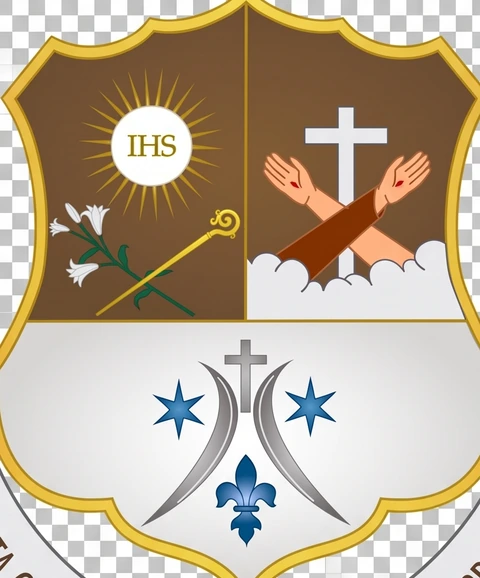
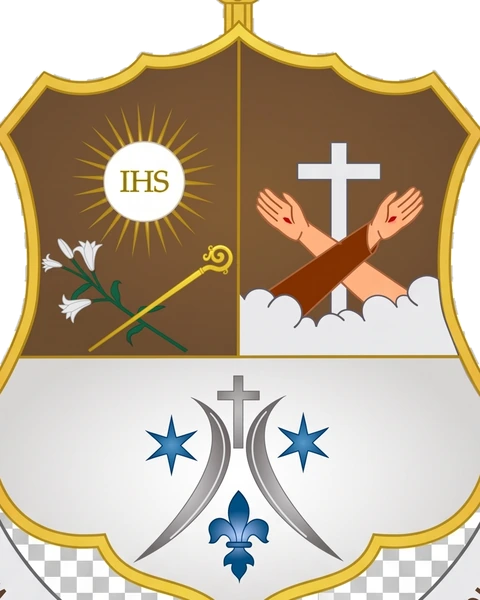
fix(brasao): recorta o fundo xadrez que estava gravado nos pixels
O PNG enviado pela secretaria nao tem transparencia real: o quadriculado
que aparece ao abrir num visualizador esta gravado nos proprios pixels,
alternando branco ~255 e cinza ~198. Tratado como se fosse canal alfa, ele
vinha junto para o site -- o brasao aparecia sobre um tabuleiro cinza.

O script volta a remover o fundo por preenchimento a partir das bordas,
agora capturando as duas tonalidades do xadrez em vez de so o branco, e
suavizando a mascara para a borda nao ficar serrilhada. So o fundo ligado a
borda da imagem e removido, o que preserva os brancos internos do desenho
(fita, base do escudo) que nao encostam na moldura.

O recorte do escudo foi recalibrado: o anterior cortava alto e deixava
entrar um pedaco da fita com uma letra solta. Com isso o escudo passou de
480x578 para 480x600, e Header e Footer acompanham as novas dimensoes.

O menu do cabecalho ganhou espacamento menor para os nove links caberem em
uma linha so.

Limitacao conhecida: sobra uma bolsa de xadrez entre a base do escudo e a
fita. Aquela regiao e cercada pelo contorno dourado e pela fita, entao o
preenchimento vindo da borda nunca a alcanca. Aparece nos cantos inferiores
do recorte do escudo.

diff --git a/components/Header.tsx b/components/Header.tsx
@@ -31,8 +31,8 @@ export default function Header() {
           <Image
             src="/fotos/brasao-escudo.webp"
             alt=""
-            width={443}
-            height={562}
+            width={480}
+            height={600}
             priority
             className="h-11 w-auto drop-shadow-sm sm:h-12"
           />
@@ -42,12 +42,12 @@ export default function Header() {
         </Link>
 
         <nav className="hidden xl:block" aria-label="Navegação principal">
-          <ul className="flex items-center gap-1">
+          <ul className="flex items-center gap-0.5">
             {links.map((link) => (
               <li key={link.href}>
                 <Link
                   href={link.href}
-                  className={`rounded-md px-3 py-2 text-sm font-medium transition-colors hover:bg-principal-claro hover:text-white ${
+                  className={`block whitespace-nowrap rounded-md px-2.5 py-2 text-sm font-medium transition-colors hover:bg-principal-claro hover:text-white ${
                     pathname === link.href ? "bg-destaque font-semibold text-principal-escuro" : ""
                   }`}
                 >

diff --git a/components/Footer.tsx b/components/Footer.tsx
@@ -12,8 +12,8 @@ export default function Footer() {
             <Image
               src="/fotos/brasao-escudo.webp"
               alt=""
-              width={443}
-              height={562}
+              width={480}
+              height={600}
               className="h-12 w-auto"
             />
             <h2 className="font-serif text-lg">{paroquia.nome}</h2>

diff --git a/scripts/preparar-brasao.py b/scripts/preparar-brasao.py
@@ -1,25 +1,76 @@
 # -*- coding: utf-8 -*-
 """Prepara o brasão da paróquia para uso no site.
 
-Fonte: PNG oficial já com fundo transparente, enviado pela secretaria.
+Fonte: PNG enviado pela secretaria. O arquivo NÃO tem transparência real —
+o fundo "xadrez" que aparece ao abrir em um visualizador está gravado nos
+próprios pixels (branco ~255 e cinza ~198 alternados), não é canal alfa.
+Por isso removemos o fundo por preenchimento a partir das bordas, capturando
+as duas tonalidades do quadriculado, e preservamos os brancos internos do
+desenho (fita, base do escudo) que não tocam a borda da imagem.
+
 Gera duas versões em public/fotos/:
   brasao.webp        — brasão completo (página "A Paróquia")
   brasao-escudo.webp — só o escudo, que continua legível em tamanho pequeno
                        (cabeçalho, rodapé e favicon)
 """
+from collections import deque
 from pathlib import Path
-from PIL import Image
+from PIL import Image, ImageFilter
 
 ORIGEM = Path(r"C:\Users\msilv\Documents\PASCOM\fotos site\brasão sem fundo.png")
 DESTINO = Path("public/fotos")
 
 # Recorte do escudo sozinho (sem a fita nem a cruz), calibrado visualmente
 # como fração do brasão completo já aparado.
-ESCUDO_CAIXA = (0.2167, 0.2632, 0.7333, 0.7031)  # esquerda, topo, direita, base
+ESCUDO_CAIXA = (0.218, 0.223, 0.782, 0.795)  # esquerda, topo, direita, base
+
+
+def eh_fundo(r: int, g: int, b: int) -> bool:
+    # tons de cinza claro (quadriculado ~198 e ~255), tolerando leve variação
+    cinza = max(r, g, b) - min(r, g, b) <= 10
+    return cinza and min(r, g, b) >= 175
+
+
+def remover_fundo(imagem_rgb: Image.Image) -> Image.Image:
+    """Preenchimento a partir das bordas: só remove o fundo que está
+    conectado à borda da imagem, preservando brancos internos do desenho."""
+    w, h = imagem_rgb.size
+    px = imagem_rgb.load()
+    alfa = Image.new("L", (w, h), 255)
+    ap = alfa.load()
+
+    visitado = bytearray(w * h)
+    fila = deque()
+
+    def enfileirar(x, y):
+        i = y * w + x
+        if not visitado[i] and eh_fundo(*px[x, y][:3]):
+            visitado[i] = 1
+            fila.append((x, y))
+
+    for x in range(w):
+        enfileirar(x, 0)
+        enfileirar(x, h - 1)
+    for y in range(h):
+        enfileirar(0, y)
+        enfileirar(w - 1, y)
+
+    while fila:
+        x, y = fila.popleft()
+        ap[x, y] = 0
+        for dx, dy in ((1, 0), (-1, 0), (0, 1), (0, -1)):
+            nx, ny = x + dx, y + dy
+            if 0 <= nx < w and 0 <= ny < h:
+                enfileirar(nx, ny)
+
+    saida = imagem_rgb.convert("RGBA")
+    alfa = alfa.filter(ImageFilter.GaussianBlur(0.7))
+    saida.putalpha(alfa)
+    return saida
 
 
 def recortar_conteudo(imagem: Image.Image, margem: int = 8) -> Image.Image:
-    caixa = imagem.getchannel("A").point(lambda v: 255 if v > 8 else 0).getbbox()
+    caixa = imagem.getchannel("A").point(lambda v: 255 if v > 12 else 0).getbbox()
     esq, topo, dir_, base = caixa
     return imagem.crop(
         (
@@ -42,8 +93,9 @@ def salvar(imagem: Image.Image, nome: str, largura_maxima: int):
 
 DESTINO.mkdir(parents=True, exist_ok=True)
 
-fonte = Image.open(ORIGEM).convert("RGBA")
-completo = recortar_conteudo(fonte)
+fonte = Image.open(ORIGEM).convert("RGB")
+sem_fundo = remover_fundo(fonte)
+completo = recortar_conteudo(sem_fundo)
 salvar(completo, "brasao.webp", 900)
 
 # O escudo ocupa a faixa central; a fita e a haste da cruz somem em miniatura.
